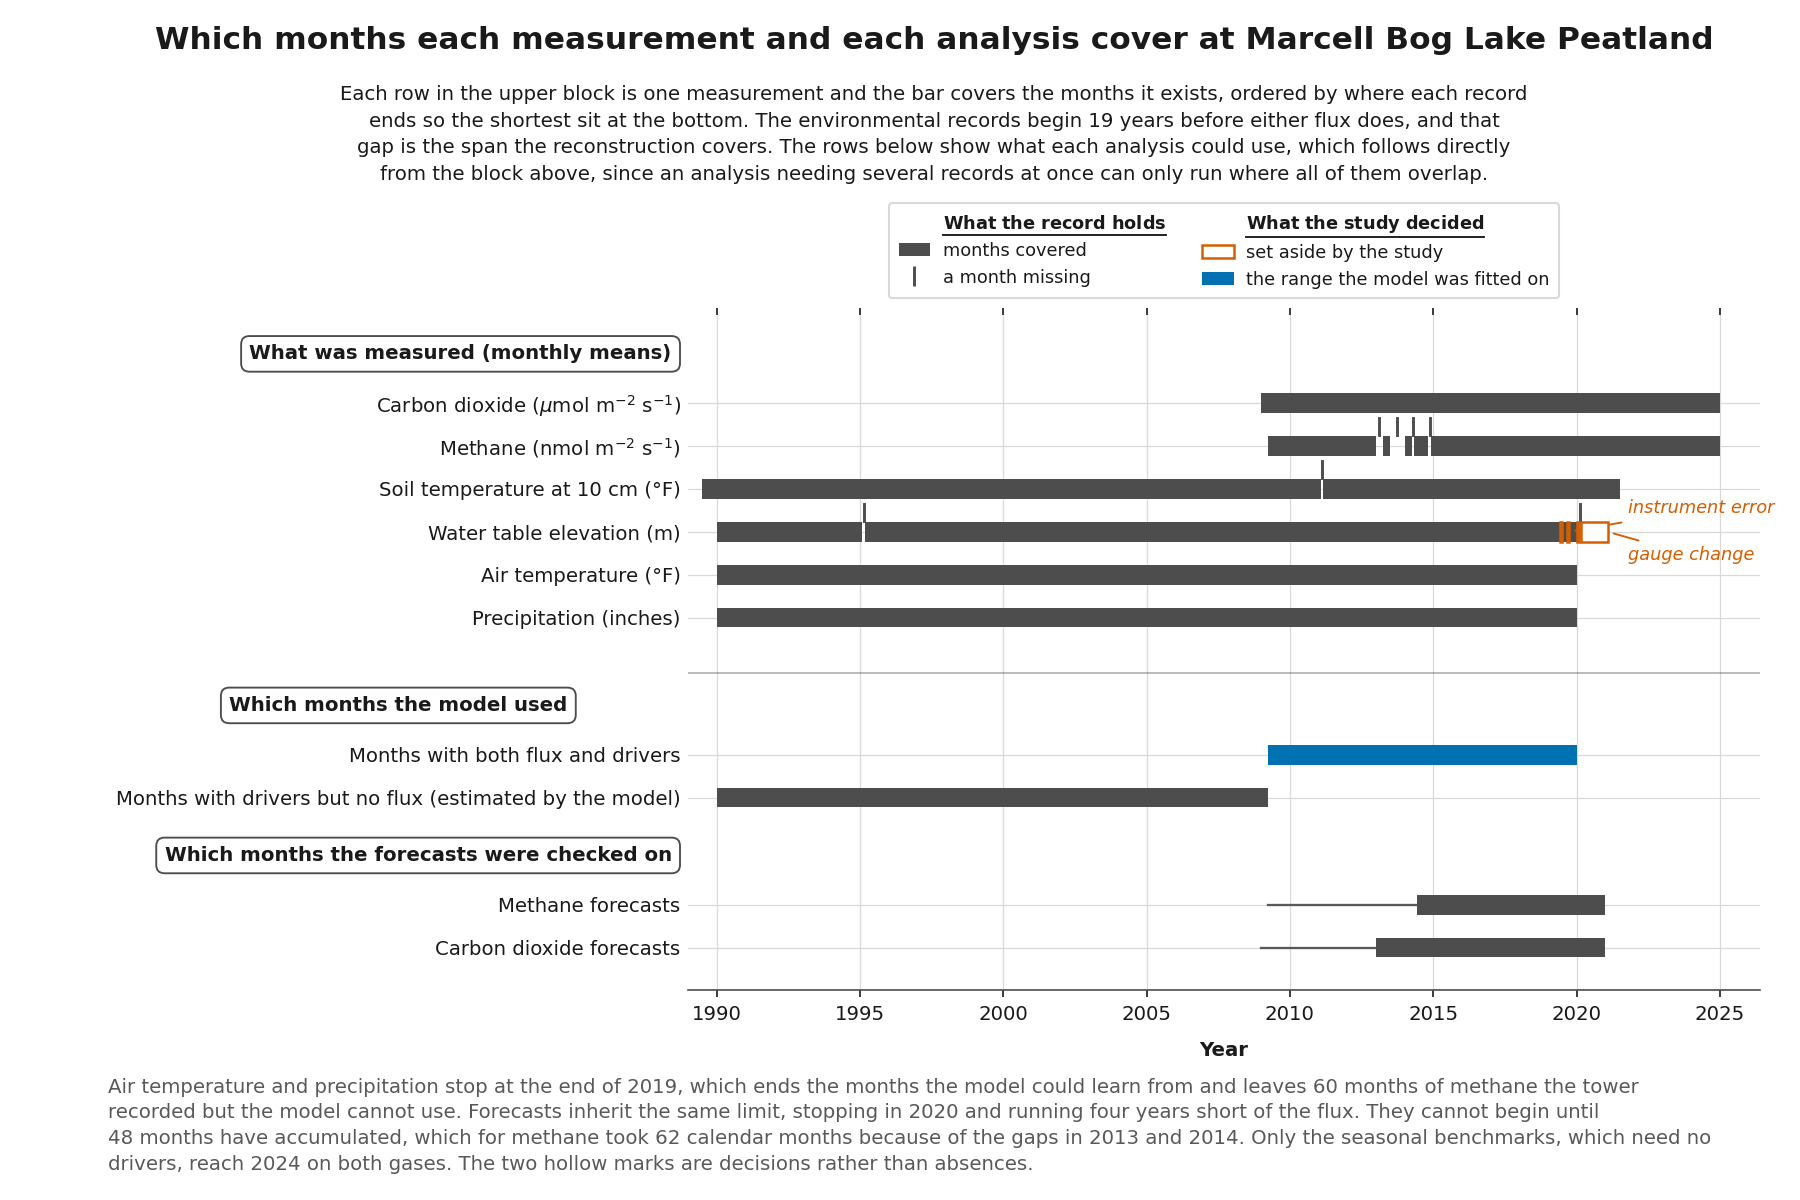
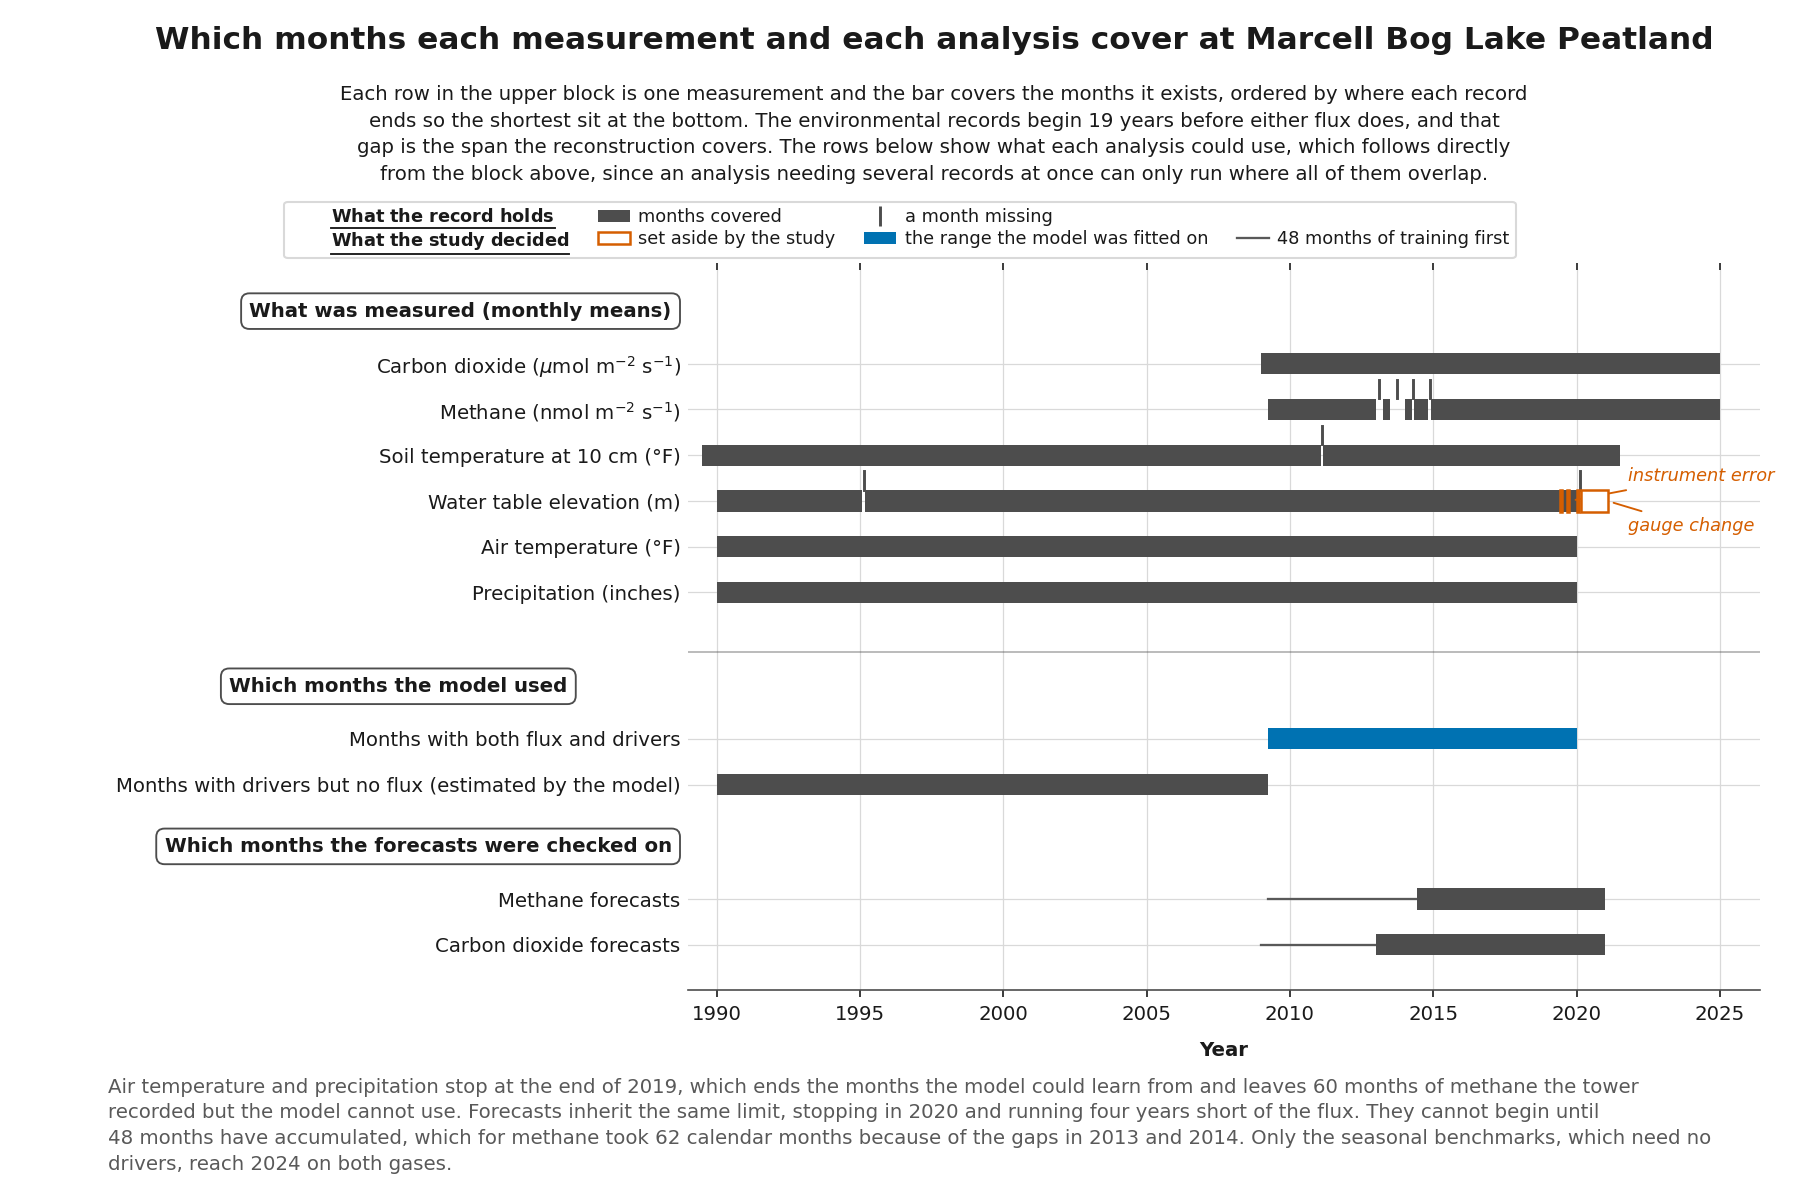
Key the training lead, and lay the availability key in two rows
The thin rule on a forecast row marks the months a model had to accumulate
before it could forecast. It was drawn and never keyed, and TRAINING_LABEL was
written for it and wired to nothing, sitting with no caller. It is the fifth
entry, under what the study decided, since it is a requirement the study imposed
rather than something the record holds.

Five entries will not go in one row: 1897 px against 1652 of drawable width, and
nothing closes it. The shortest defensible label reaches 1774, shortening both
headings 1778, and 7.5 pt is still over at 1673 while sitting a point below the
floor set when the reconstruction figure's 6.4 pt key was rejected. Two rows
instead, one group to a row, each headed at its left, so the boundary between
groups is a line break rather than a reader noticing which item has no marker.

The key's own geometry is worth about 10 px of height and no more, since handle
length and text pad move width alone and the row gap is one gap between two
rows. The gap to its neighbours was the larger cost and the cheaper fix: the key
sat 17.3 px above the panel on a default anchor and now clears by 11.7.

The anchor is blended, x from the figure and y from the axes. Centred in axes
fractions the key hung off the canvas, because the row labels take a wide left
gutter and the key is wider than the axes it was centred on.

The hollow-marks sentence is cut. "Set aside by the study" is that mark and
[…]

diff --git a/src/study/figures.py b/src/study/figures.py
@@ -1534,8 +1534,7 @@ AVAILABILITY_TEXT = ps.FigureText(
         "limit, stopping in 2020 and running four years short of the flux. They "
         "cannot begin until 48 months have accumulated, which for methane "
         "took 62 calendar months because of the gaps in 2013 and 2014. Only the "
-        "seasonal benchmarks, which need no drivers, reach 2024 on both gases. "
-        "The two hollow marks are decisions rather than absences."
+        "seasonal benchmarks, which need no drivers, reach 2024 on both gases."
     ),
 )
 
@@ -1563,6 +1562,21 @@ MISSING_LABEL = "a month missing"
 ASIDE_LABEL = "set aside by the study"
 FITTED_RANGE_LABEL = "the range the model was fitted on"
 TRAINING_LABEL = "48 months of training first"
+
+#: The key's own geometry, tightened from the defaults so it spends less of the
+#: room between the subtitle and the panel. See the note in study.md for what
+#: each lever bought and where it stopped.
+LEGEND_HANDLE = 1.8
+LEGEND_TEXT_PAD = 0.5
+LEGEND_ROW_GAP = 0.22
+LEGEND_BORDER_PAD = 0.35
+
+#: How far the key sits above the panel, in axes fractions. The cheapest lever on
+#: this figure: the key's own geometry can give back about 10 px of height and no
+#: more, while the two gaps around it were the larger cost and neither is load
+#: bearing. Reduced until the key clears the panel by about the width of its own
+#: frame line and no further.
+LEGEND_LIFT = 1.004
 
 #: Bar geometry in row units. The bars are the figure, so they are heavy; the notch
 #: has to read as a break in one rather than as a mark on top of one, which is why
@@ -1809,20 +1823,40 @@ def covariate_availability(rows: list[dict],
     # the lower. Unheaded they read as one list of marks and the division the
     # figure exists to draw is not in its key. It is also narrower this way, 670
     # px against 1095, at the cost of 58 px of height the balance absorbs.
+    # One group to a row, each headed at its left, so the boundary between the two
+    # is a line break rather than a reader noticing which item has no marker.
+    # Five entries cannot go in one row: they measure 1897 px against 1652 of
+    # drawable width, and nothing short of 7.5 pt closes that, which is below the
+    # set's floor. Matplotlib fills columns top to bottom, so the order is
+    # interleaved and the shorter group is padded with an empty cell.
     blank = Line2D([], [], linestyle="none", marker="none")
+    covered = Patch(facecolor=ps.MEASURED, edgecolor="none")
+    missing = Line2D([], [], color=ps.MEASURED, linestyle="none", marker="|",
+                     markersize=10, markeredgewidth=1.4)
+    aside = Patch(facecolor="white", edgecolor=ps.OUTSIDE, linewidth=1.2)
+    fitted = Patch(facecolor=ps.INSIDE, edgecolor="none")
+    # The lead on a forecast row, which had a label written for it and never
+    # wired to anything: TRAINING_LABEL sat with no caller.
+    training = Line2D([], [], color=ps.MUTED, linewidth=1.1)
     entries = [
-        (blank, RECORD_HEADING),
-        (Patch(facecolor=ps.MEASURED, edgecolor="none"), PRESENT_LABEL),
-        (Line2D([], [], color=ps.MEASURED, linestyle="none", marker="|", markersize=10,
-                markeredgewidth=1.4), MISSING_LABEL),
-        (blank, DECIDED_HEADING),
-        (Patch(facecolor="white", edgecolor=ps.OUTSIDE, linewidth=1.2), ASIDE_LABEL),
-        (Patch(facecolor=ps.INSIDE, edgecolor="none"), FITTED_RANGE_LABEL),
+        (blank, RECORD_HEADING), (blank, DECIDED_HEADING),
+        (covered, PRESENT_LABEL), (aside, ASIDE_LABEL),
+        (missing, MISSING_LABEL), (fitted, FITTED_RANGE_LABEL),
+        (blank, ""), (training, TRAINING_LABEL),
     ]
     ps.legend(ax, handles=[h for h, _ in entries], labels=[label for _, label in entries],
-              loc="lower center", bbox_to_anchor=(0.5, 1.012), ncol=2,
-              framealpha=1.0, handlelength=1.8, handletextpad=0.7, columnspacing=2.0,
-              borderpad=0.55, fontsize=ps.LEGEND_SIZE - 1.0)
+              loc="lower center",
+              # Centred on the canvas, not on the axes. The row labels take a
+              # wide left gutter, so the axes occupies only the right two thirds
+              # and a key centred in axes fractions hangs off the canvas edge.
+              # Blended: x from the figure, y from the axes, so the key still
+              # rides the panel when the block is rebalanced.
+              bbox_to_anchor=(0.5, LEGEND_LIFT),
+              bbox_transform=blended_transform_factory(fig.transFigure, ax.transAxes),
+              ncol=4,
+              framealpha=1.0, handlelength=LEGEND_HANDLE, handletextpad=LEGEND_TEXT_PAD,
+              columnspacing=1.6, labelspacing=LEGEND_ROW_GAP,
+              borderpad=LEGEND_BORDER_PAD, fontsize=ps.LEGEND_SIZE - 1.0)
     # Balance first, rule the headings second. The rules are figure artists at
     # fixed coordinates, so a block that moves afterwards leaves them striking
     # through the text they were drawn under.

diff --git a/tests/test_availability_figure.py b/tests/test_availability_figure.py
@@ -167,11 +167,25 @@ def test_the_key_covers_every_mark_on_the_panel_and_carries_no_reasons():
     one of them is a hue that means something across the whole set."""
     fig = figure()
     labels = [text.get_text() for text in fig.axes[0].get_legend().get_texts()]
-    # Two headed groups now, filled down their columns. The four marks divide as
-    # the panel does: what the record holds against what the study decided.
-    assert labels == [figures.RECORD_HEADING, figures.PRESENT_LABEL,
-                      figures.MISSING_LABEL, figures.DECIDED_HEADING,
-                      figures.ASIDE_LABEL, figures.FITTED_RANGE_LABEL]
+    # One group to a row, each headed at its left. Matplotlib fills columns top
+    # to bottom, so the order is interleaved and the shorter group is padded.
+    assert labels == [figures.RECORD_HEADING, figures.DECIDED_HEADING,
+                      figures.PRESENT_LABEL, figures.ASIDE_LABEL,
+                      figures.MISSING_LABEL, figures.FITTED_RANGE_LABEL,
+                      "", figures.TRAINING_LABEL]
+    ps.plt.close(fig)
+
+
+def test_the_lead_on_a_forecast_row_is_keyed():
+    """A thin rule marks the months a model had to accumulate before it could
+    forecast. It was drawn and never keyed, and TRAINING_LABEL was written for it
+    and never wired to anything, so the label sat with no caller."""
+    fig = figure()
+    labels = [text.get_text() for text in fig.axes[0].get_legend().get_texts()]
+    assert figures.TRAINING_LABEL in labels
+    leads = [line for line in fig.axes[0].lines
+             if line.get_color() == ps.MUTED and len(line.get_xdata()) == 2]
+    assert leads, "the mark the entry keys is drawn"
     ps.plt.close(fig)
 
 
@@ -281,15 +295,25 @@ def test_no_block_name_carries_a_comma():
         assert "," not in heading
 
 
-def test_the_key_is_framed_and_centered_over_the_panel():
+def test_the_key_is_framed_and_centered_on_the_canvas():
+    """Centred on the canvas, not on the panel.
+
+    The row labels take a wide left gutter, so the panel occupies only the right
+    two thirds. A key wider than the panel and centred on it hangs off the canvas
+    edge, which is what the five-entry key did before its anchor was blended: x
+    from the figure, y from the axes so it still rides the panel when the block
+    is rebalanced.
+    """
     fig = figure()
     ax = fig.axes[0]
     fig.canvas.draw()
     key = ax.get_legend()
     assert key.get_frame_on()
     box = key.get_window_extent()
-    panel = ax.get_window_extent()
-    assert abs((box.x0 + box.x1) / 2 - (panel.x0 + panel.x1) / 2) < 12
+    width = fig.get_size_inches()[0] * fig.dpi
+    assert abs((box.x0 + box.x1) / 2 - width / 2) < 12
+    assert box.x0 >= ps.MARGIN_PX["left"] - 12, "the key stays inside the margins"
+    assert box.x1 <= width - ps.MARGIN_PX["right"] + 12
     ps.plt.close(fig)
 
 

diff --git a/notes/study.md b/notes/study.md
@@ -1007,6 +1007,15 @@ from the fourth, and the sixth will be predictable from these.
 | 3 | `src/study/residuals.py`, a whole module | nothing called it; its numbers lived only in prose here | the 2011 concentration figures could not be regenerated by running the repository |
 | 4 | the end of the record, derivable | `ingest.assemble.TARGET_END` pinned `"2021-12"` | on the BASE v5-5 switch the grid would have stopped three years short, regularly spaced and wrong, with nothing failing |
 | 5 | `plotstyle.even_year_ticks`, already drawing annual minors | a second date locator written into `_draw_flux_panel` | two places setting ticks on one axis, the later silently overriding the earlier |
+| 6 | `TRAINING_LABEL`, a label written for the lead on a forecast row | nothing: no caller anywhere | the mark was drawn and never keyed, so a reader met it with no entry for it |
+
+The sixth is the smallest shape it takes. A constant was written, named exactly
+for the mark it describes, and never wired to the legend that would have used it,
+so it sat at line 1565 with no caller while the mark it names went unkeyed on the
+panel. Nothing failed, because an unused constant is not an error and an unkeyed
+mark still renders. Six instances now, in five shapes: a window exclusion in the
+wrong module, pinned literals, an orphaned module, a hardcoded end date, a
+duplicate tick locator, and a label with no caller.
 
 The first four were recorded as one class, a value that describes the data
 sitting as a constant rather than being derived from it. That framing is true of
@@ -3650,6 +3659,54 @@ what the record holds, *set aside by the study* and *the range the model was
 fitted on* say what the study decided about it, which is the upper block against
 the lower. Headed in the set's device it is also narrower, 670 px against 1095,
 at the cost of 58 px of height.
+
+### The key's five entries, and what the levers were worth
+
+The lead on a forecast row, a thin rule marking the months a model had to
+accumulate before it could forecast, was drawn and never keyed. It is the fifth
+entry, under **What the study decided**, since it is a requirement the study
+imposed rather than something the record holds.
+
+**Five entries will not go in one row.** They measure 1897 px against 1652 of
+drawable width. Nothing closes that: the shortest defensible label reaches 1774,
+shortening both headings 1778, and 7.5 pt reaches 1673 and is still over, on top
+of being a point below the set's floor. So the key is two rows, one group to a
+row, each headed at its left. The boundary between the groups is then a line
+break rather than a reader noticing which item carries no marker, which is what
+the inline arrangement would have asked of them.
+
+**What each lever bought, measured rather than guessed:**
+
+| lever | key size | height saved |
+|---|---|---|
+| as first laid out, handle 1.8, pad 0.5, rows 0.30 | 1238.7 x 64.8 | — |
+| handle length 1.8 to 1.2 | 1196.2 x 64.8 | none, width only |
+| handle-to-text pad 0.5 to 0.4 | 1231.6 x 64.8 | none, width only |
+| row gap 0.30 to 0.22 | 1238.7 x 63.4 | 1.4 px |
+| row gap 0.30 to 0.15 | 1238.7 x 62.1 | 2.7 px |
+| border pad 0.55 to 0.35 | 1231.6 x 57.7 | 7.1 px |
+| all together | 1182.0 x 55.1 | 9.7 px |
+
+**The key's own geometry is worth about 10 px of height and no more**, because
+handle length and text pad move width alone and the row gap is one gap between
+two rows. Border pad is the only one of the three worth taking, and it is worth
+7 of the 10.
+
+**The gap to its neighbours was the larger cost and the cheaper fix.** The key
+sat 17.3 px above the panel on a 1.012 anchor, for no reason beyond the default.
+At 1.004 it clears by 11.7 px, which is about the width of its own frame line,
+and that single number is worth more than every geometry lever together. The gap
+above it is the balancer's floor and is not available.
+
+Final: **1231.6 x 56.3 px**, 18.1 px below the subtitle and 11.7 px above the
+panel, against 95.2 px tall and two stacked columns when the grouping was
+introduced.
+
+**The anchor had to be blended.** Centred at 0.5 in axes fractions the key hung
+off the right edge of the canvas, because the row labels take a wide left gutter
+and the axes occupies only the right two thirds, while the key is wider than the
+axes. It now takes x from the figure and y from the axes, so it centres on the
+canvas and still rides the panel when the block is rebalanced.
 
 ### `balance_drawing_block` can shrink, and this figure is why
 

diff --git a/figures/README_fragments.md b/figures/README_fragments.md
@@ -76,7 +76,7 @@ The repeating shape accounts for 74% of the variation on methane and 71% on carb
 
 **Each row in the upper block is one measurement and the bar covers the months it exists, ordered by where each record ends so the shortest sit at the bottom. The environmental records begin 19 years before either flux does, and that gap is the span the reconstruction covers. The rows below show what each analysis could use, which follows directly from the block above, since an analysis needing several records at once can only run where all of them overlap.**
 
-Air temperature and precipitation stop at the end of 2019, which ends the months the model could learn from and leaves 60 months of methane the tower recorded but the model cannot use. Forecasts inherit the same limit, stopping in 2020 and running four years short of the flux. They cannot begin until 48 months have accumulated, which for methane took 62 calendar months because of the gaps in 2013 and 2014. Only the seasonal benchmarks, which need no drivers, reach 2024 on both gases. The two hollow marks are decisions rather than absences.
+Air temperature and precipitation stop at the end of 2019, which ends the months the model could learn from and leaves 60 months of methane the tower recorded but the model cannot use. Forecasts inherit the same limit, stopping in 2020 and running four years short of the flux. They cannot begin until 48 months have accumulated, which for methane took 62 calendar months because of the gaps in 2013 and 2014. Only the seasonal benchmarks, which need no drivers, reach 2024 on both gases.
 
 ### Diagnostic check on model errors at Marcell Bog Lake Peatland (2009 to 2019)
 
